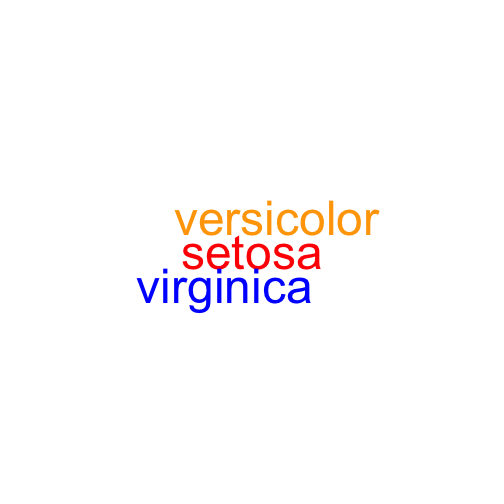
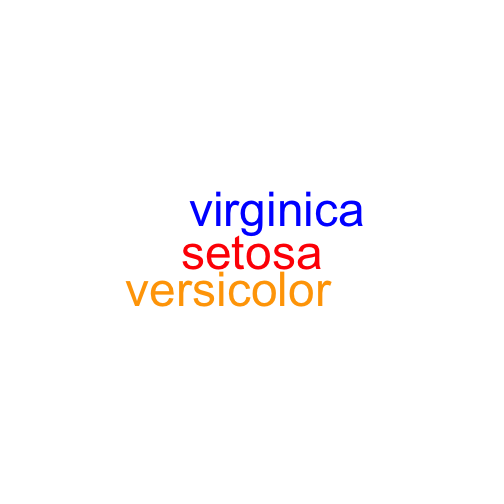
Pass in model object

Changed region(s): [[0.2381, 0.5357, 0.6548, 0.625], [0.3274, 0.3869, 0.744, 0.4762]]

diff --git a/README.md b/README.md
@@ -48,6 +48,15 @@ wordcloud(words = words, freq = freqs, coefficients = coefficients, colors = col
 
 ![plot of chunk unnamed-chunk-2](figure/unnamed-chunk-2-1.png)
 
+You can also pass in the model object directly, if desired.
+
+
+```r
+wordcloud(model, colors = colors)
+```
+
+![plot of chunk unnamed-chunk-3](figure/unnamed-chunk-3-1.png)
+
 ## Acknowledgements
 
 This work is based upon [the wordcloud package](https://cran.r-project.org/web/packages/wordcloud/index.html) by Ian Fellows, available from CRAN with the LGPL-2.1 license. This derivative work modified the original wordcloud package library by adding in logic to color words based on an additional variable, `coefficients`. The code was also cleaned, re-styled, and simplified. This package also removed some unneeded functionality from the wordcloud package, such as a C library for calculating overlap.
